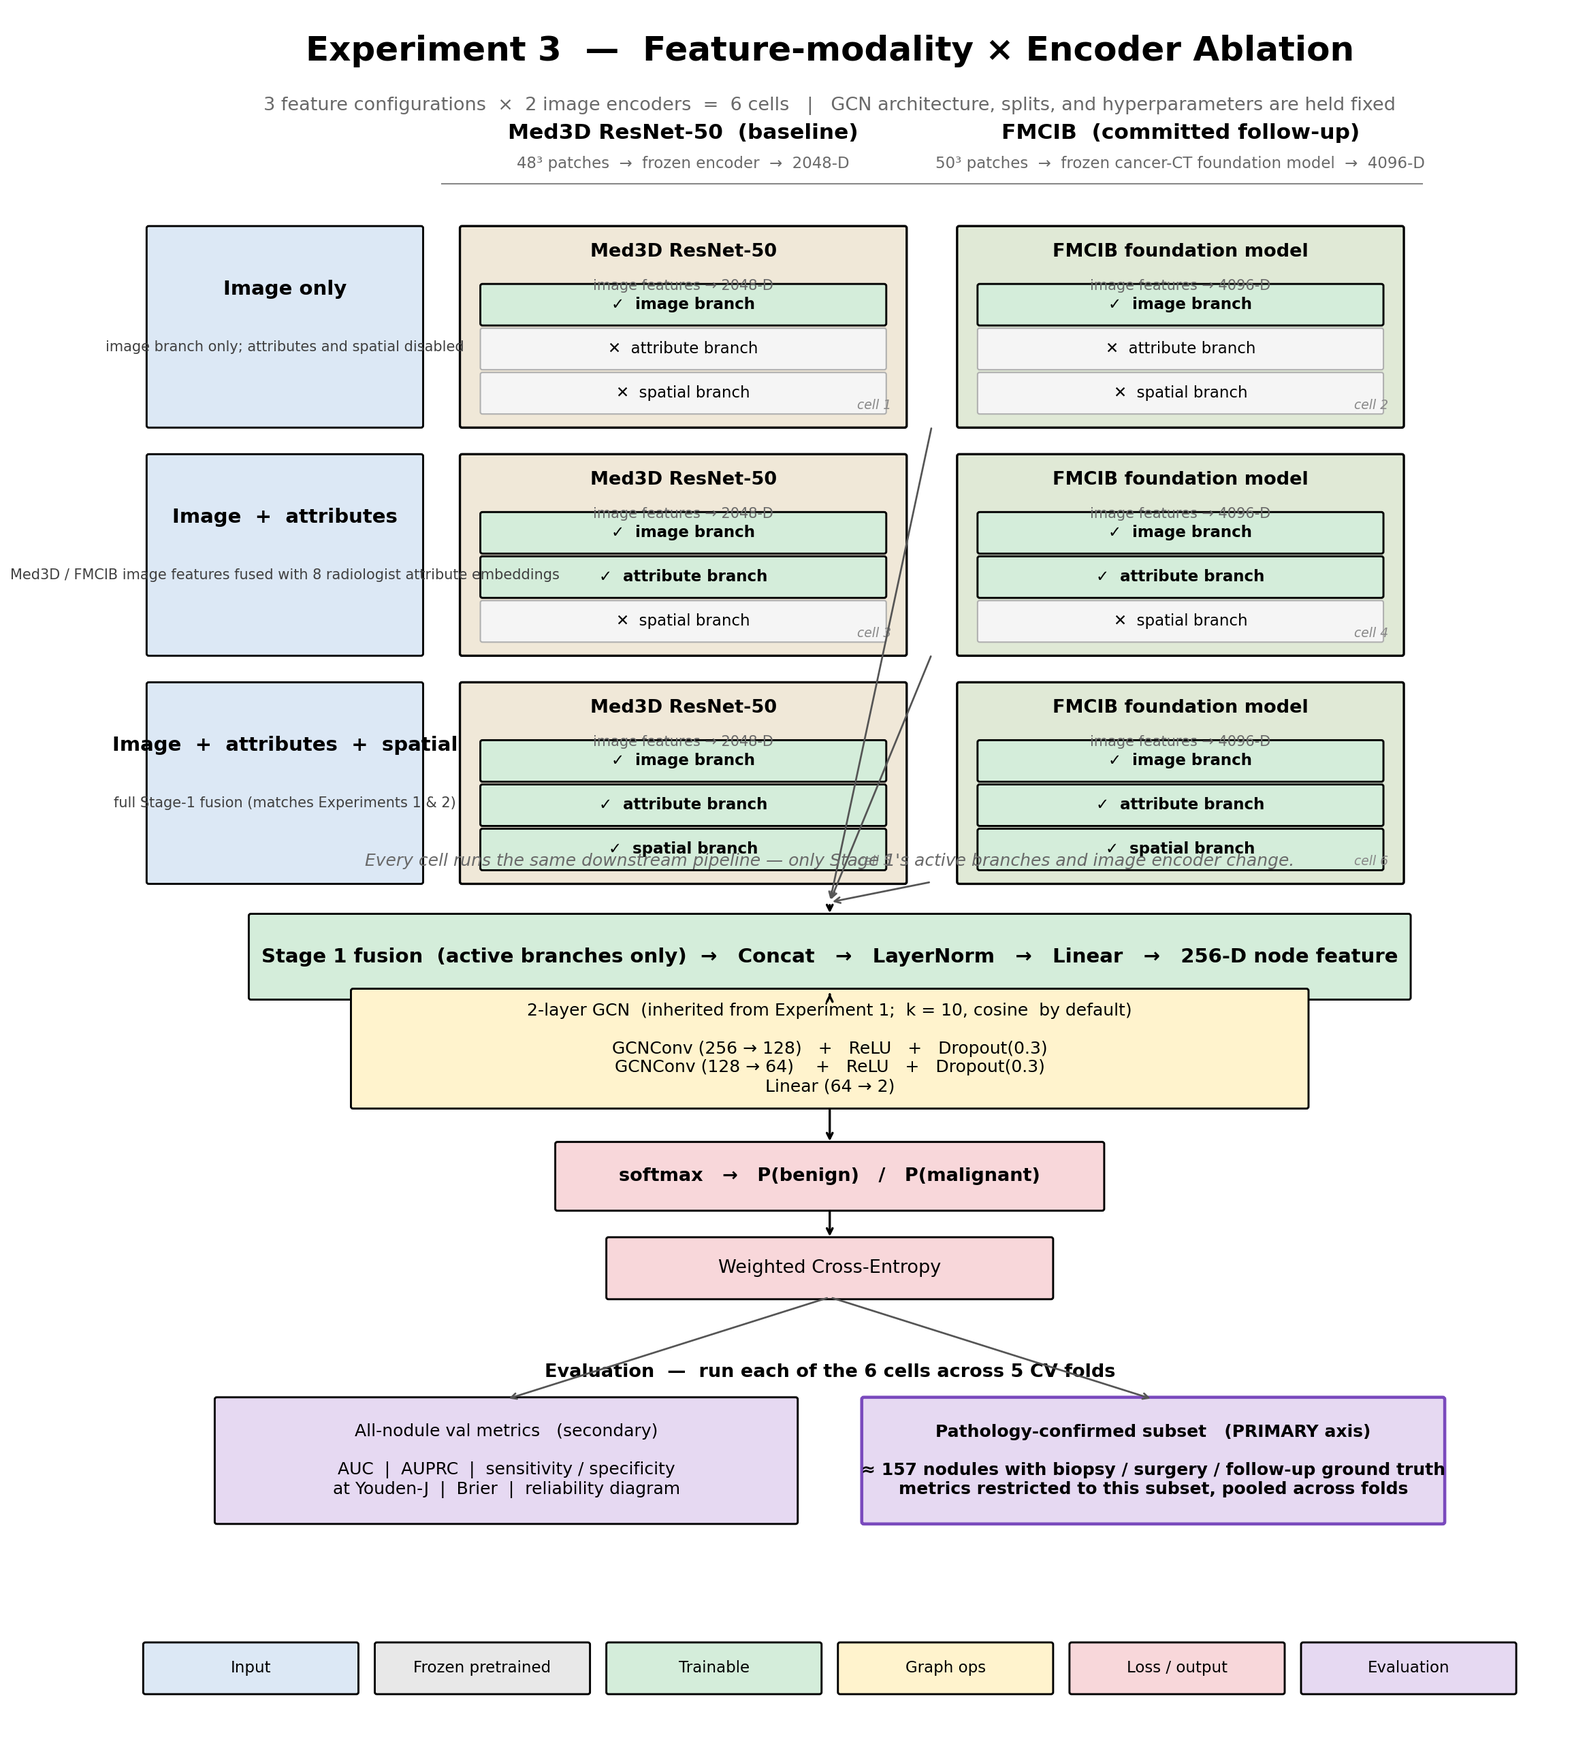
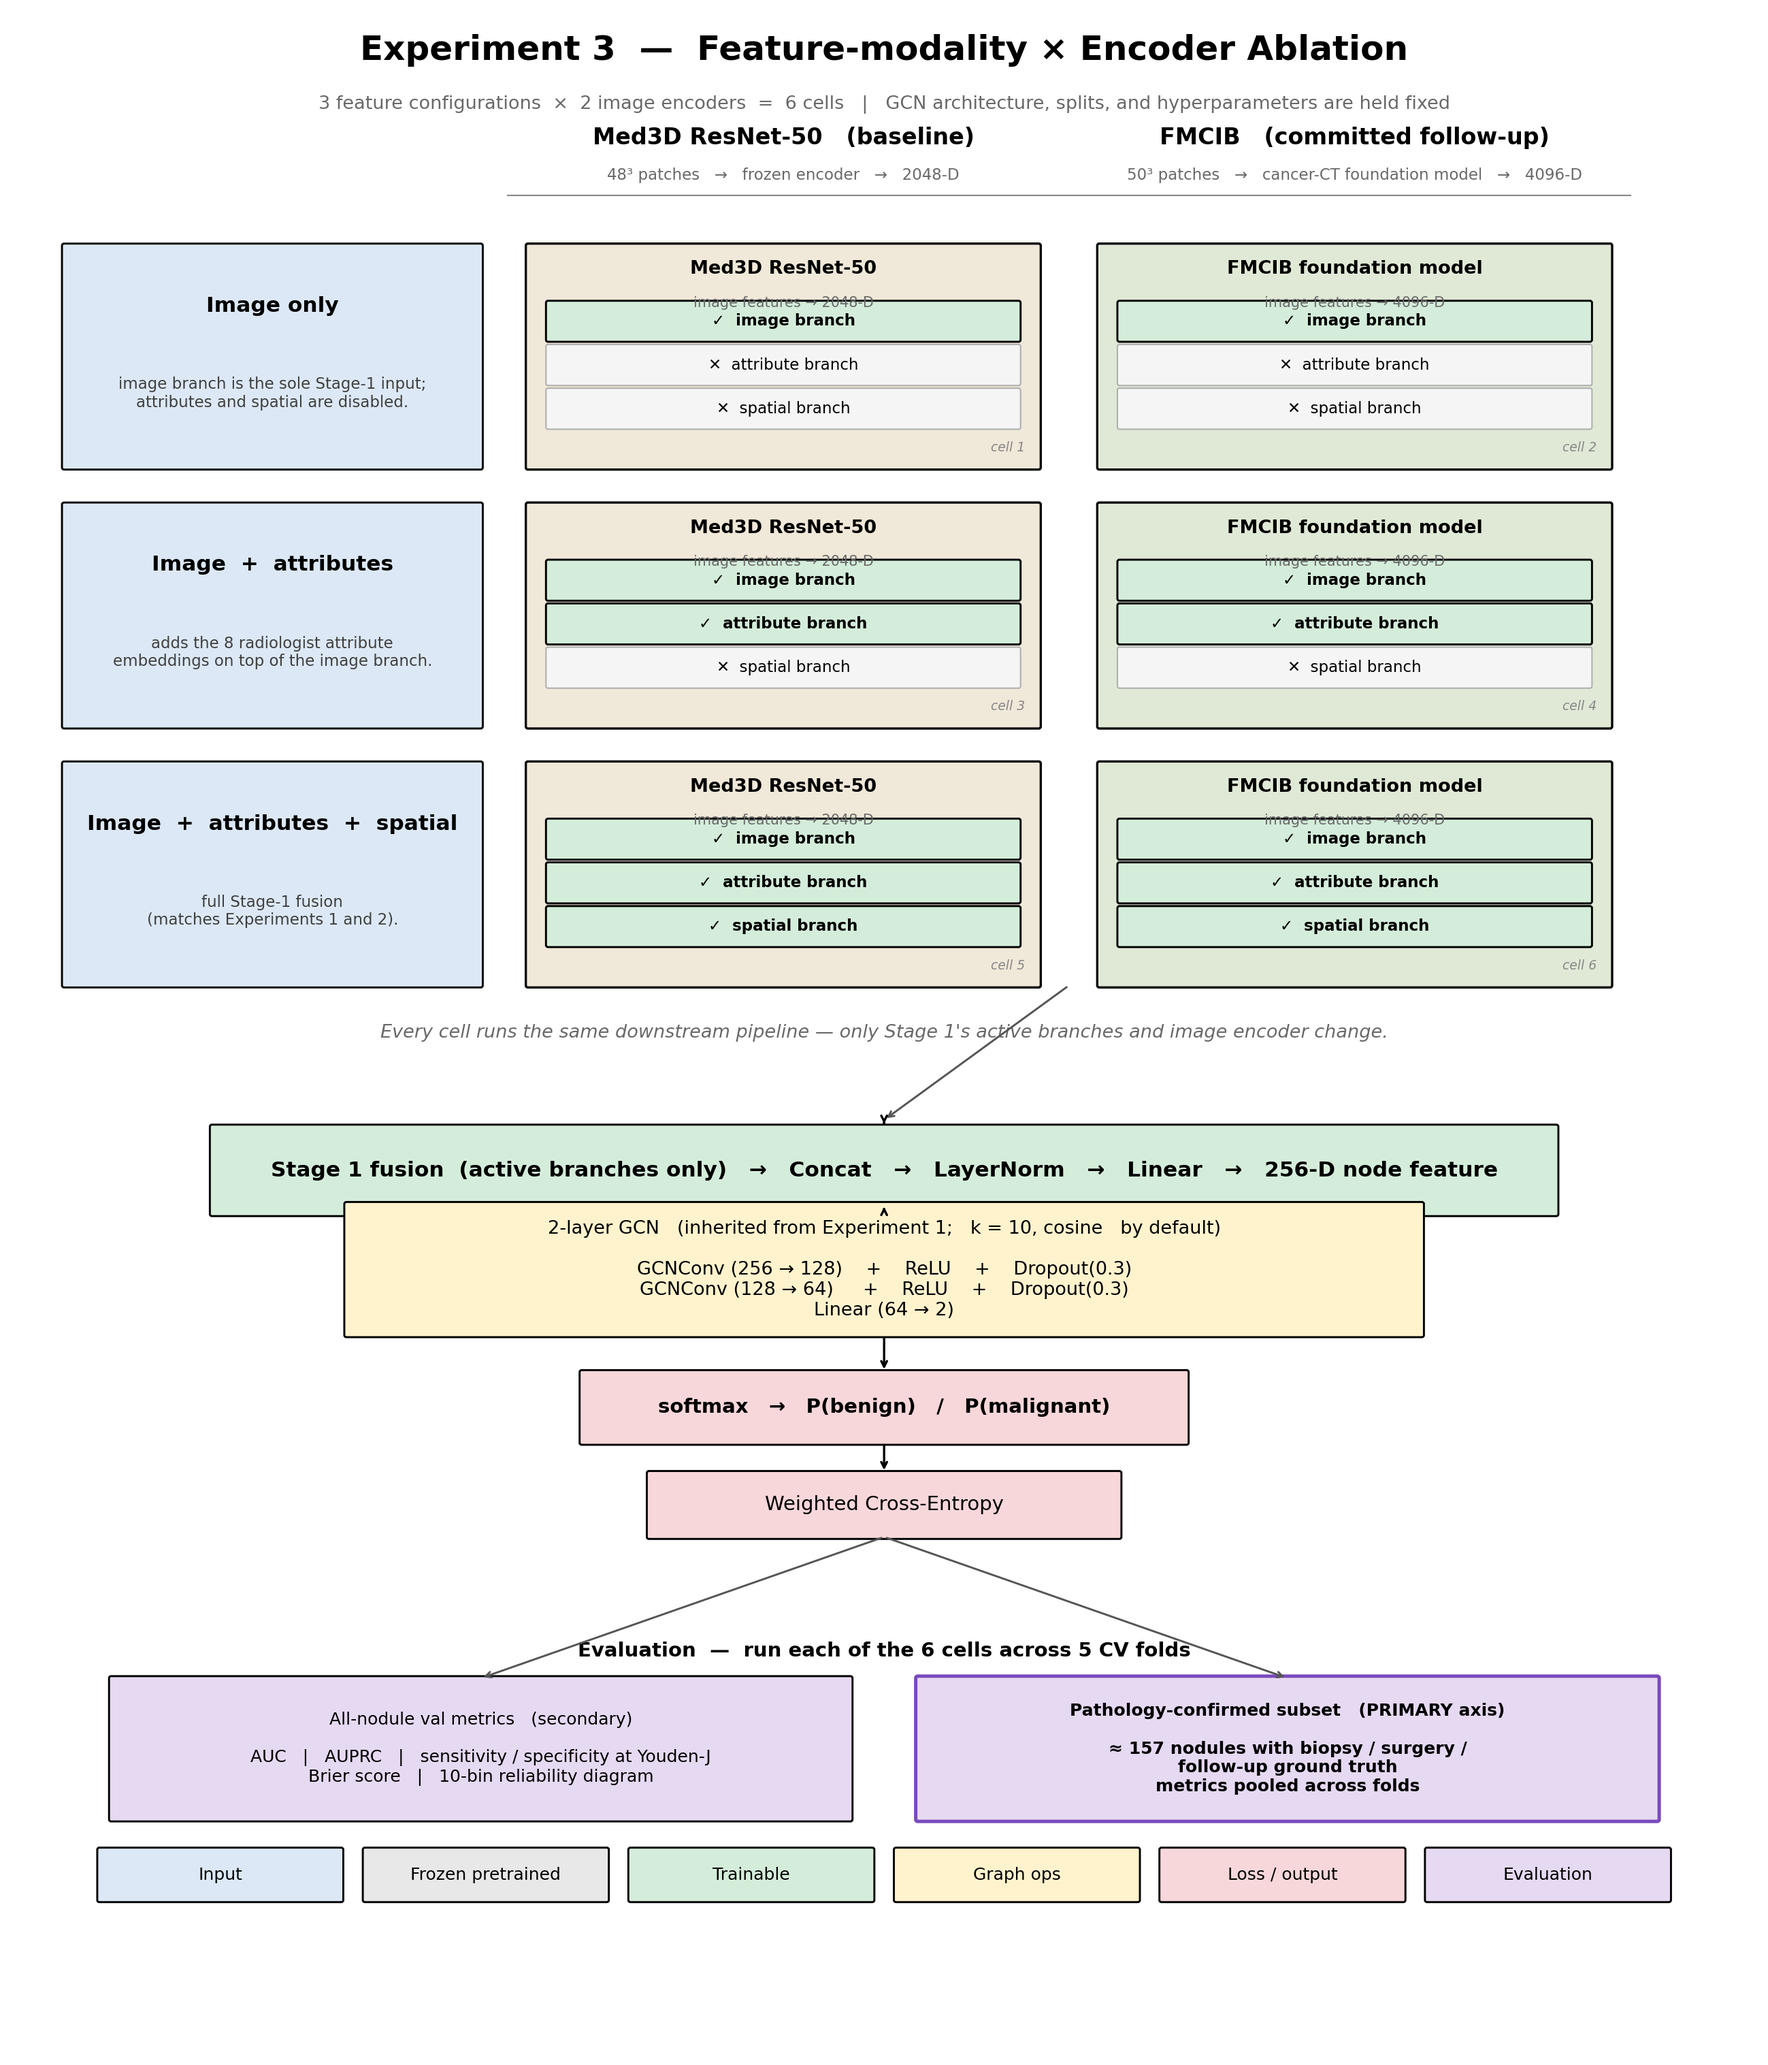
Improve architecture_exp3 layout so text stays inside shapes
Rewrites the generator with a wider 26x26 canvas, wider row-label boxes
(6.2 in instead of 4.0), manually line-broken row descriptions (the
previous version relied on matplotlib's wrap=True which doesn't clip to
box width), and a funnel-caption strip that no longer overlaps the
bottom grid row. Eval panels and legend get a clean gap now that the
pathology-confirmed subset box no longer collides with the legend row.

diff --git a/GNN_for_CT_Mapping/experiments/harrison/scripts/draw_architecture_exp3.py b/GNN_for_CT_Mapping/experiments/harrison/scripts/draw_architecture_exp3.py
@@ -41,8 +41,8 @@ MED3D_ACCENT = "#F0E8D8"
 FMCIB_ACCENT = "#E0E9D6"
 
 
-CANVAS_W = 22.0
-CANVAS_H = 22.0
+CANVAS_W = 26.0
+CANVAS_H = 26.0
 
 
 def _box(ax, x, y, w, h, text, facecolor, fontsize=12, weight="normal",
@@ -122,7 +122,7 @@ def _draw_cell(ax, x, y, w, h, encoder_name, encoder_spec, accent,
 def render(out_path: Path) -> None:
     fig, ax = plt.subplots(figsize=(CANVAS_W, CANVAS_H))
     ax.set_xlim(0, CANVAS_W)
-    ax.set_ylim(-2.6, CANVAS_H + 0.8)
+    ax.set_ylim(-3.6, CANVAS_H + 0.8)
     ax.set_aspect("equal")
     ax.axis("off")
 
@@ -136,66 +136,69 @@ def render(out_path: Path) -> None:
             ha="center", va="center", fontsize=13, color="dimgray")
 
     # --- Grid section ---
-    # Grid layout: two columns (encoders), three rows (feature configs).
-    grid_top = CANVAS_H - 1.4
-    grid_bottom = grid_top - 10.2
-    cell_w = 6.5
-    cell_h = 2.9
-    # Horizontal layout:
-    #   row-label column | Med3D column | FMCIB column
-    row_label_x = 1.0
-    row_label_w = 4.0
-    col1_x = row_label_x + row_label_w + 0.6
-    col2_x = col1_x + cell_w + 0.8
+    # Grid layout: row-label column | Med3D column | FMCIB column.
+    # Widths chosen so the longest row-description line (48 chars @ 11pt)
+    # fits inside the row-label box with ~0.3" margin on each side.
+    grid_top = CANVAS_H - 1.6
+    cell_w = 7.6
+    cell_h = 3.3
+    row_gap = 0.55
+    row_label_x = 0.8
+    row_label_w = 6.2
+    col1_x = row_label_x + row_label_w + 0.7
+    col2_x = col1_x + cell_w + 0.9
 
-    # Column headers (encoder names) above the grid.
-    ax.text(col1_x + cell_w / 2, grid_top + 0.4,
-            "Med3D ResNet-50  (baseline)",
-            ha="center", va="center", fontsize=15, weight="bold")
+    # Column headers (encoder names) above the grid. Spec text is split
+    # across two lines to avoid crowding the column edges.
+    ax.text(col1_x + cell_w / 2, grid_top + 0.5,
+            "Med3D ResNet-50   (baseline)",
+            ha="center", va="center", fontsize=16, weight="bold")
     ax.text(col1_x + cell_w / 2, grid_top - 0.05,
-            "48\u00b3 patches  \u2192  frozen encoder  \u2192  2048-D",
+            "48\u00b3 patches   \u2192   frozen encoder   \u2192   2048-D",
             ha="center", va="center", fontsize=11, color="dimgray")
 
-    ax.text(col2_x + cell_w / 2, grid_top + 0.4,
-            "FMCIB  (committed follow-up)",
-            ha="center", va="center", fontsize=15, weight="bold")
+    ax.text(col2_x + cell_w / 2, grid_top + 0.5,
+            "FMCIB   (committed follow-up)",
+            ha="center", va="center", fontsize=16, weight="bold")
     ax.text(col2_x + cell_w / 2, grid_top - 0.05,
-            "50\u00b3 patches  \u2192  frozen cancer-CT foundation model  \u2192  4096-D",
+            "50\u00b3 patches   \u2192   cancer-CT foundation model   \u2192   4096-D",
             ha="center", va="center", fontsize=11, color="dimgray")
 
-    # Column-header divider line.
+    # Column-header divider line under the two encoder labels.
     ax.plot([col1_x - 0.3, col2_x + cell_w + 0.3],
             [grid_top - 0.35, grid_top - 0.35],
             color="#888888", linewidth=1.0, zorder=0)
 
-    # Feature config rows.
+    # Feature config rows. Descriptions are manually line-broken so every
+    # line fits inside the row-label box width (no reliance on wrap=True,
+    # which doesn't actually clip to box width in matplotlib).
     feature_configs = [
         (
             "Image only",
-            "image branch only; attributes and spatial disabled",
+            "image branch is the sole Stage-1 input;\nattributes and spatial are disabled.",
             True, False, False,
         ),
         (
             "Image  +  attributes",
-            "Med3D / FMCIB image features fused with 8 radiologist attribute embeddings",
+            "adds the 8 radiologist attribute\nembeddings on top of the image branch.",
             True, True, False,
         ),
         (
             "Image  +  attributes  +  spatial",
-            "full Stage-1 fusion (matches Experiments 1 & 2)",
+            "full Stage-1 fusion\n(matches Experiments 1 and 2).",
             True, True, True,
         ),
     ]
 
     cell_idx = 1
     for r, (row_title, row_desc, use_image, use_attrs, use_spatial) in enumerate(feature_configs):
-        row_cy = grid_top - 1.0 - r * (cell_h + 0.45) - cell_h / 2
+        row_cy = grid_top - 1.1 - r * (cell_h + row_gap) - cell_h / 2
         # Row label box on the far left.
         _plain_box(ax, row_label_x, row_cy - cell_h / 2, row_label_w, cell_h, INPUT_COLOR)
-        ax.text(row_label_x + row_label_w / 2, row_cy + 0.55, row_title,
-                ha="center", va="center", fontsize=14, weight="bold")
-        ax.text(row_label_x + row_label_w / 2, row_cy - 0.3, row_desc,
-                ha="center", va="center", fontsize=10, color="#404040", wrap=True)
+        ax.text(row_label_x + row_label_w / 2, row_cy + 0.75, row_title,
+                ha="center", va="center", fontsize=15, weight="bold")
+        ax.text(row_label_x + row_label_w / 2, row_cy - 0.55, row_desc,
+                ha="center", va="center", fontsize=11, color="#404040")
 
         # Med3D cell.
         _draw_cell(ax, col1_x, row_cy - cell_h / 2, cell_w, cell_h,
@@ -210,96 +213,105 @@ def render(out_path: Path) -> None:
                    f"cell {cell_idx}")
         cell_idx += 1
 
-    # --- Funnel arrow into the shared pipeline ---
-    funnel_y_top = grid_bottom + 0.3
-    funnel_y_bot = funnel_y_top - 1.0
-    # Three small converging arrows: one from each row's right side down toward
-    # the shared pipeline's top edge center.
-    pipeline_cx = CANVAS_W / 2
-    for r in range(3):
-        row_cy = grid_top - 1.0 - r * (cell_h + 0.45) - cell_h / 2
-        # Draw an arrow from under each row toward the pipeline.
-        mid_x = (col1_x + col2_x + cell_w) / 2
-        _arrow(ax, mid_x, row_cy - cell_h / 2, pipeline_cx, funnel_y_bot,
-               color="#555555", lw=1.3)
+    grid_bottom = row_cy - cell_h / 2  # y-coordinate of the bottom-most row
 
-    ax.text(pipeline_cx, funnel_y_top - 0.4,
+    # --- Funnel caption, placed in its own strip below the grid ---
+    pipeline_cx = CANVAS_W / 2
+    caption_y = grid_bottom - 0.7
+    ax.text(pipeline_cx, caption_y,
             "Every cell runs the same downstream pipeline \u2014 only Stage 1's active branches and image encoder change.",
-            ha="center", va="center", fontsize=12, style="italic", color="dimgray")
+            ha="center", va="center", fontsize=13, style="italic", color="dimgray")
+
+    # Converging arrows from each row's bottom-center toward a single
+    # funnel target just above the fusion bar. The caption sits on its
+    # own strip so the arrows never cross text.
+    funnel_y_top = caption_y - 0.4
+    funnel_y_bot = funnel_y_top - 0.9
+    for r in range(3):
+        row_cy = grid_top - 1.1 - r * (cell_h + row_gap) - cell_h / 2
+        row_bottom = row_cy - cell_h / 2
+        # Only the bottom row's arrow actually reaches the funnel; the
+        # other two terminate at the caption strip so they don't cross
+        # subsequent row labels.
+        if r == 2:
+            src_x = (col1_x + col2_x + cell_w) / 2
+            _arrow(ax, src_x, row_bottom, pipeline_cx, funnel_y_bot,
+                   color="#555555", lw=1.4)
 
     # --- Shared pipeline ---
     y_fuse = funnel_y_bot - 1.4
-    h_fuse = 1.2
-    fuse_left = 2.5
-    fuse_width = CANVAS_W - 5.0
+    h_fuse = 1.3
+    fuse_width = 20.0
+    fuse_left = (CANVAS_W - fuse_width) / 2
     _box(ax, fuse_left, y_fuse, fuse_width, h_fuse,
-         "Stage 1 fusion  (active branches only)  \u2192   Concat   \u2192   LayerNorm   \u2192   Linear   \u2192   256-D node feature",
-         TRAINED_COLOR, fontsize=14, weight="bold")
+         "Stage 1 fusion  (active branches only)   \u2192   Concat   \u2192   LayerNorm   \u2192   Linear   \u2192   256-D node feature",
+         TRAINED_COLOR, fontsize=15, weight="bold")
     _arrow(ax, pipeline_cx, funnel_y_bot, pipeline_cx, y_fuse + h_fuse)
 
     # GCN head (unchanged from Exp 1 / Exp 2).
-    y_gcn = y_fuse - 1.6
-    h_gcn = 1.7
-    gcn_left = 4.0
-    gcn_width = CANVAS_W - 8.0
+    y_gcn = y_fuse - 1.8
+    h_gcn = 1.95
+    gcn_width = 16.0
+    gcn_left = (CANVAS_W - gcn_width) / 2
     _box(ax, gcn_left, y_gcn, gcn_width, h_gcn,
-         "2-layer GCN  (inherited from Experiment 1;  k = 10, cosine  by default)\n\n"
-         "GCNConv (256 \u2192 128)   +   ReLU   +   Dropout(0.3)\n"
-         "GCNConv (128 \u2192 64)    +   ReLU   +   Dropout(0.3)\n"
+         "2-layer GCN   (inherited from Experiment 1;   k = 10, cosine   by default)\n\n"
+         "GCNConv (256 \u2192 128)    +    ReLU    +    Dropout(0.3)\n"
+         "GCNConv (128 \u2192 64)     +    ReLU    +    Dropout(0.3)\n"
          "Linear (64 \u2192 2)",
-         GRAPH_COLOR, fontsize=12)
+         GRAPH_COLOR, fontsize=13)
     _arrow(ax, pipeline_cx, y_fuse, pipeline_cx, y_gcn + h_gcn)
 
     # Output head.
-    y_out = y_gcn - 1.5
-    h_out = 0.95
-    out_w = 8.0
+    y_out = y_gcn - 1.6
+    h_out = 1.05
+    out_w = 9.0
     _box(ax, (CANVAS_W - out_w) / 2, y_out, out_w, h_out,
          "softmax   \u2192   P(benign)   /   P(malignant)",
-         OUTPUT_COLOR, fontsize=13, weight="bold")
+         OUTPUT_COLOR, fontsize=14, weight="bold")
     _arrow(ax, pipeline_cx, y_gcn, pipeline_cx, y_out + h_out)
 
-    y_loss = y_out - 1.3
-    h_loss = 0.85
-    loss_w = 6.5
+    y_loss = y_out - 1.4
+    h_loss = 0.95
+    loss_w = 7.0
     _box(ax, (CANVAS_W - loss_w) / 2, y_loss, loss_w, h_loss,
          "Weighted Cross-Entropy",
-         OUTPUT_COLOR, fontsize=13)
+         OUTPUT_COLOR, fontsize=14)
     _arrow(ax, pipeline_cx, y_out, pipeline_cx, y_loss + h_loss)
 
     # --- Evaluation axis ---
-    y_eval_top = y_loss - 1.0
-    y_eval_bot = y_eval_top - 2.3
-    ax.text(pipeline_cx, y_eval_top - 0.1,
-            "Evaluation  —  run each of the 6 cells across 5 CV folds",
-            ha="center", va="center", fontsize=13, weight="bold")
+    y_eval_top = y_loss - 1.5
+    eval_box_h = 2.1
+    y_eval_bot = y_eval_top - 0.6 - eval_box_h
+    ax.text(pipeline_cx, y_eval_top - 0.2,
+            "Evaluation  \u2014  run each of the 6 cells across 5 CV folds",
+            ha="center", va="center", fontsize=14, weight="bold")
 
-    eval_box_w = 8.5
-    eval_box_h = 1.8
-    left_eval = 2.0
-    right_eval = CANVAS_W - 2.0 - eval_box_w
+    eval_box_w = 11.0
+    left_eval = 1.5
+    right_eval = CANVAS_W - 1.5 - eval_box_w
     # Left eval panel: all-nodule metrics.
     _box(ax, left_eval, y_eval_bot, eval_box_w, eval_box_h,
          "All-nodule val metrics   (secondary)\n\n"
-         "AUC  |  AUPRC  |  sensitivity / specificity\n"
-         "at Youden-J  |  Brier  |  reliability diagram",
+         "AUC   |   AUPRC   |   sensitivity / specificity at Youden-J\n"
+         "Brier score   |   10-bin reliability diagram",
          EVAL_COLOR, fontsize=12)
     # Right eval panel: pathology-confirmed subset (primary axis).
     _box(ax, right_eval, y_eval_bot, eval_box_w, eval_box_h,
          "Pathology-confirmed subset   (PRIMARY axis)\n\n"
-         "\u2248 157 nodules with biopsy / surgery / follow-up ground truth\n"
-         "metrics restricted to this subset, pooled across folds",
+         "\u2248 157 nodules with biopsy / surgery /\nfollow-up ground truth\n"
+         "metrics pooled across folds",
          EVAL_COLOR, fontsize=12, weight="bold",
-         edge_color="#7A4ABD", edge_lw=2.2)
+         edge_color="#7A4ABD", edge_lw=2.4)
 
     # Arrows from loss into both eval panels.
     _arrow(ax, pipeline_cx, y_loss, left_eval + eval_box_w / 2, y_eval_bot + eval_box_h,
-           color="#555555", lw=1.3)
+           color="#555555", lw=1.4)
     _arrow(ax, pipeline_cx, y_loss, right_eval + eval_box_w / 2, y_eval_bot + eval_box_h,
-           color="#555555", lw=1.3)
+           color="#555555", lw=1.4)
 
     # --- Legend ---
-    y_leg = -1.9
+    # Placed with a clear margin below the eval boxes so the two never touch.
+    y_leg = y_eval_bot - 1.2
     items = [
         ("Input", INPUT_COLOR),
         ("Frozen pretrained", FROZEN_COLOR),
@@ -308,12 +320,12 @@ def render(out_path: Path) -> None:
         ("Loss / output", OUTPUT_COLOR),
         ("Evaluation", EVAL_COLOR),
     ]
-    leg_w, leg_h = 3.1, 0.7
-    total = len(items) * leg_w + (len(items) - 1) * 0.3
+    leg_w, leg_h = 3.6, 0.75
+    total = len(items) * leg_w + (len(items) - 1) * 0.35
     lx = (CANVAS_W - total) / 2
     for label, color in items:
-        _box(ax, lx, y_leg, leg_w, leg_h, label, color, fontsize=11)
-        lx += leg_w + 0.3
+        _box(ax, lx, y_leg, leg_w, leg_h, label, color, fontsize=12)
+        lx += leg_w + 0.35
 
     out_path.parent.mkdir(parents=True, exist_ok=True)
     fig.savefig(out_path, dpi=150, bbox_inches="tight")
